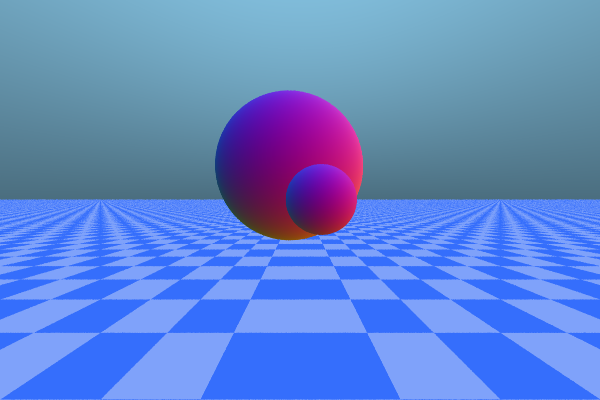
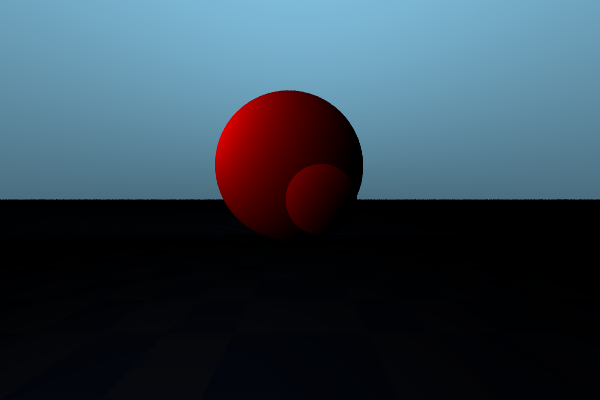
Add shading by creating a Light class
- Every function that returns a color now does so in the 0-1 range
- Shadows will be added in a future commit

diff --git a/src/main.cpp b/src/main.cpp
@@ -25,15 +25,30 @@ vec3 getColor(Ray& ray) {
         glm::dot(ray.direction, vec3(0, 0, 1))
         / glm::length(ray.direction);
     angleWithHorizon = (angleWithHorizon + 1) / 2.0;
-    vec3 color = vec3(150, 220, 255) * angleWithHorizon;
+    vec3 color = vec3(0.58, 0.86, 1) * angleWithHorizon;
 
     float t_min = std::numeric_limits<float>::infinity();
     for (std::unique_ptr<Entity> &entity : world.entities) {
-        if (entity->hit(ray)) {
-            if (ray.hits.t_min <= t_min) {
-                t_min = ray.hits.t_min;
-                color = ray.color;
+        if (entity->hit(ray) && ray.hits.t_min <= t_min) {
+            t_min = ray.hits.t_min;
+            // TODO: See if the ray is intersected and don't add
+            // the light if yes.
+            color = ray.color;
+            float brightnessAtPoint = 0;
+            vec3 lightsColor(0, 0, 0);
+            for (std::unique_ptr<Light> &light : world.lights) {
+                // Calculate angle between the normal and the light
+                vec3 vectorToLight = ray.hits.intersection - light->position;
+                float angle = glm::dot(ray.hits.normal, vectorToLight);
+                angle = (-angle + 1) / 2.0;
+                // Get the distance to the light
+                float distToLight = glm::abs(glm::length(vectorToLight));
+                // Calculate brightness at the intersection point
+                brightnessAtPoint += (light->brightness * (1.0 / (distToLight * distToLight))) * angle;
+                // Add the light's color to the ray color
+                lightsColor += brightnessAtPoint * light->color;
             }
+            color *= lightsColor;
         }
     }
     return color;
@@ -54,6 +69,11 @@ int main() {
     world.entities.emplace_back(new Plane(vec3(0, 0, 1), 2.0));
     world.entities.emplace_back(new Sphere(vec3(-0.1, 2, 0.3), 0.7));
     world.entities.emplace_back(new Sphere(vec3(0.1, 1, 0), 0.2));
+    // Setup Light properties
+    vec3 lightColor(0.39, 0.39, 0.39);
+    vec3 lightPos(-1.5, 1, 1);
+    float lightBright = 2.8;
+    world.lights.emplace_back(new Light(lightPos, lightColor, lightBright));
 
     // Calculate the size of one pixel
     float horizontalSize = 1.0 / (WIDTH);
@@ -95,10 +115,24 @@ int main() {
             vec3 color = getColor(ray);
             #endif
 
+            // This is pretty stupid but it works
+            if (color.x > 1)
+                color.x = 1;
+            if (color.y > 1)
+                color.y = 1;
+            if (color.z > 1)
+                color.z = 1;
+            if (color.x < 0)
+                color.x = 0;
+            if (color.y < 0)
+                color.y = 0;
+            if (color.z < 0)
+                color.z = 0;
+
             // Write the color to the image buffer
-            data[offset++] = static_cast<uint8_t>(color.x);
-            data[offset++] = static_cast<uint8_t>(color.y);
-            data[offset++] = static_cast<uint8_t>(color.z);
+            data[offset++] = static_cast<uint8_t>(color.x * 255.0);
+            data[offset++] = static_cast<uint8_t>(color.y * 255.0);
+            data[offset++] = static_cast<uint8_t>(color.z * 255.0);
         }
     }
 

diff --git a/src/Sphere.cpp b/src/Sphere.cpp
@@ -26,6 +26,7 @@ bool Sphere::hit(Ray& ray) {
         // Map to [0, 1] and multiply by 255 to get a color
         ray.color = (ray.hits.normal + static_cast<float>(1.0))
             / static_cast<float>(2.0) * static_cast<float>(255.0);
+        ray.color = vec3(1, 0, 0);
         return true;
     }
     return false;

diff --git a/src/Plane.cpp b/src/Plane.cpp
@@ -28,7 +28,7 @@ vec3 Plane::getColor(Ray ray) {
 
     // Generate a checkerboard pattern
     if ((distX + distY) % 2 == 0)
-        return vec3(53, 110, 252);
+        return vec3(0.2, 0.43, 0.98);
     else
-        return vec3(127, 162, 250);
+        return vec3(0.5, 0.63, 0.98);
 }

diff --git a/src/World.h b/src/World.h
@@ -3,10 +3,12 @@
 #include <memory>
 #include "glm/glm.hpp"
 #include "Entity.h"
+#include "Light.h"
 
 using glm::vec3;
 
 struct World {
     vec3 skyColor;
     std::vector<std::unique_ptr<Entity>> entities;
+    std::vector<std::unique_ptr<Light>> lights;
 };

diff --git a/src/Light.h b/src/Light.h
@@ -1,0 +1,14 @@
+#pragma once
+
+#include "glm/glm.hpp"
+using glm::vec3;
+
+class Light {
+ public:
+    Light() {}
+
+    Light(vec3 pos, vec3 col, float bright);
+ public:
+    vec3 position, color;
+    float brightness;
+};

diff --git a/src/Light.cpp b/src/Light.cpp
@@ -1,0 +1,4 @@
+#include "Light.h"
+
+Light::Light(vec3 pos, vec3 col, float bright) :
+    position(pos), color(col), brightness(bright) {}
